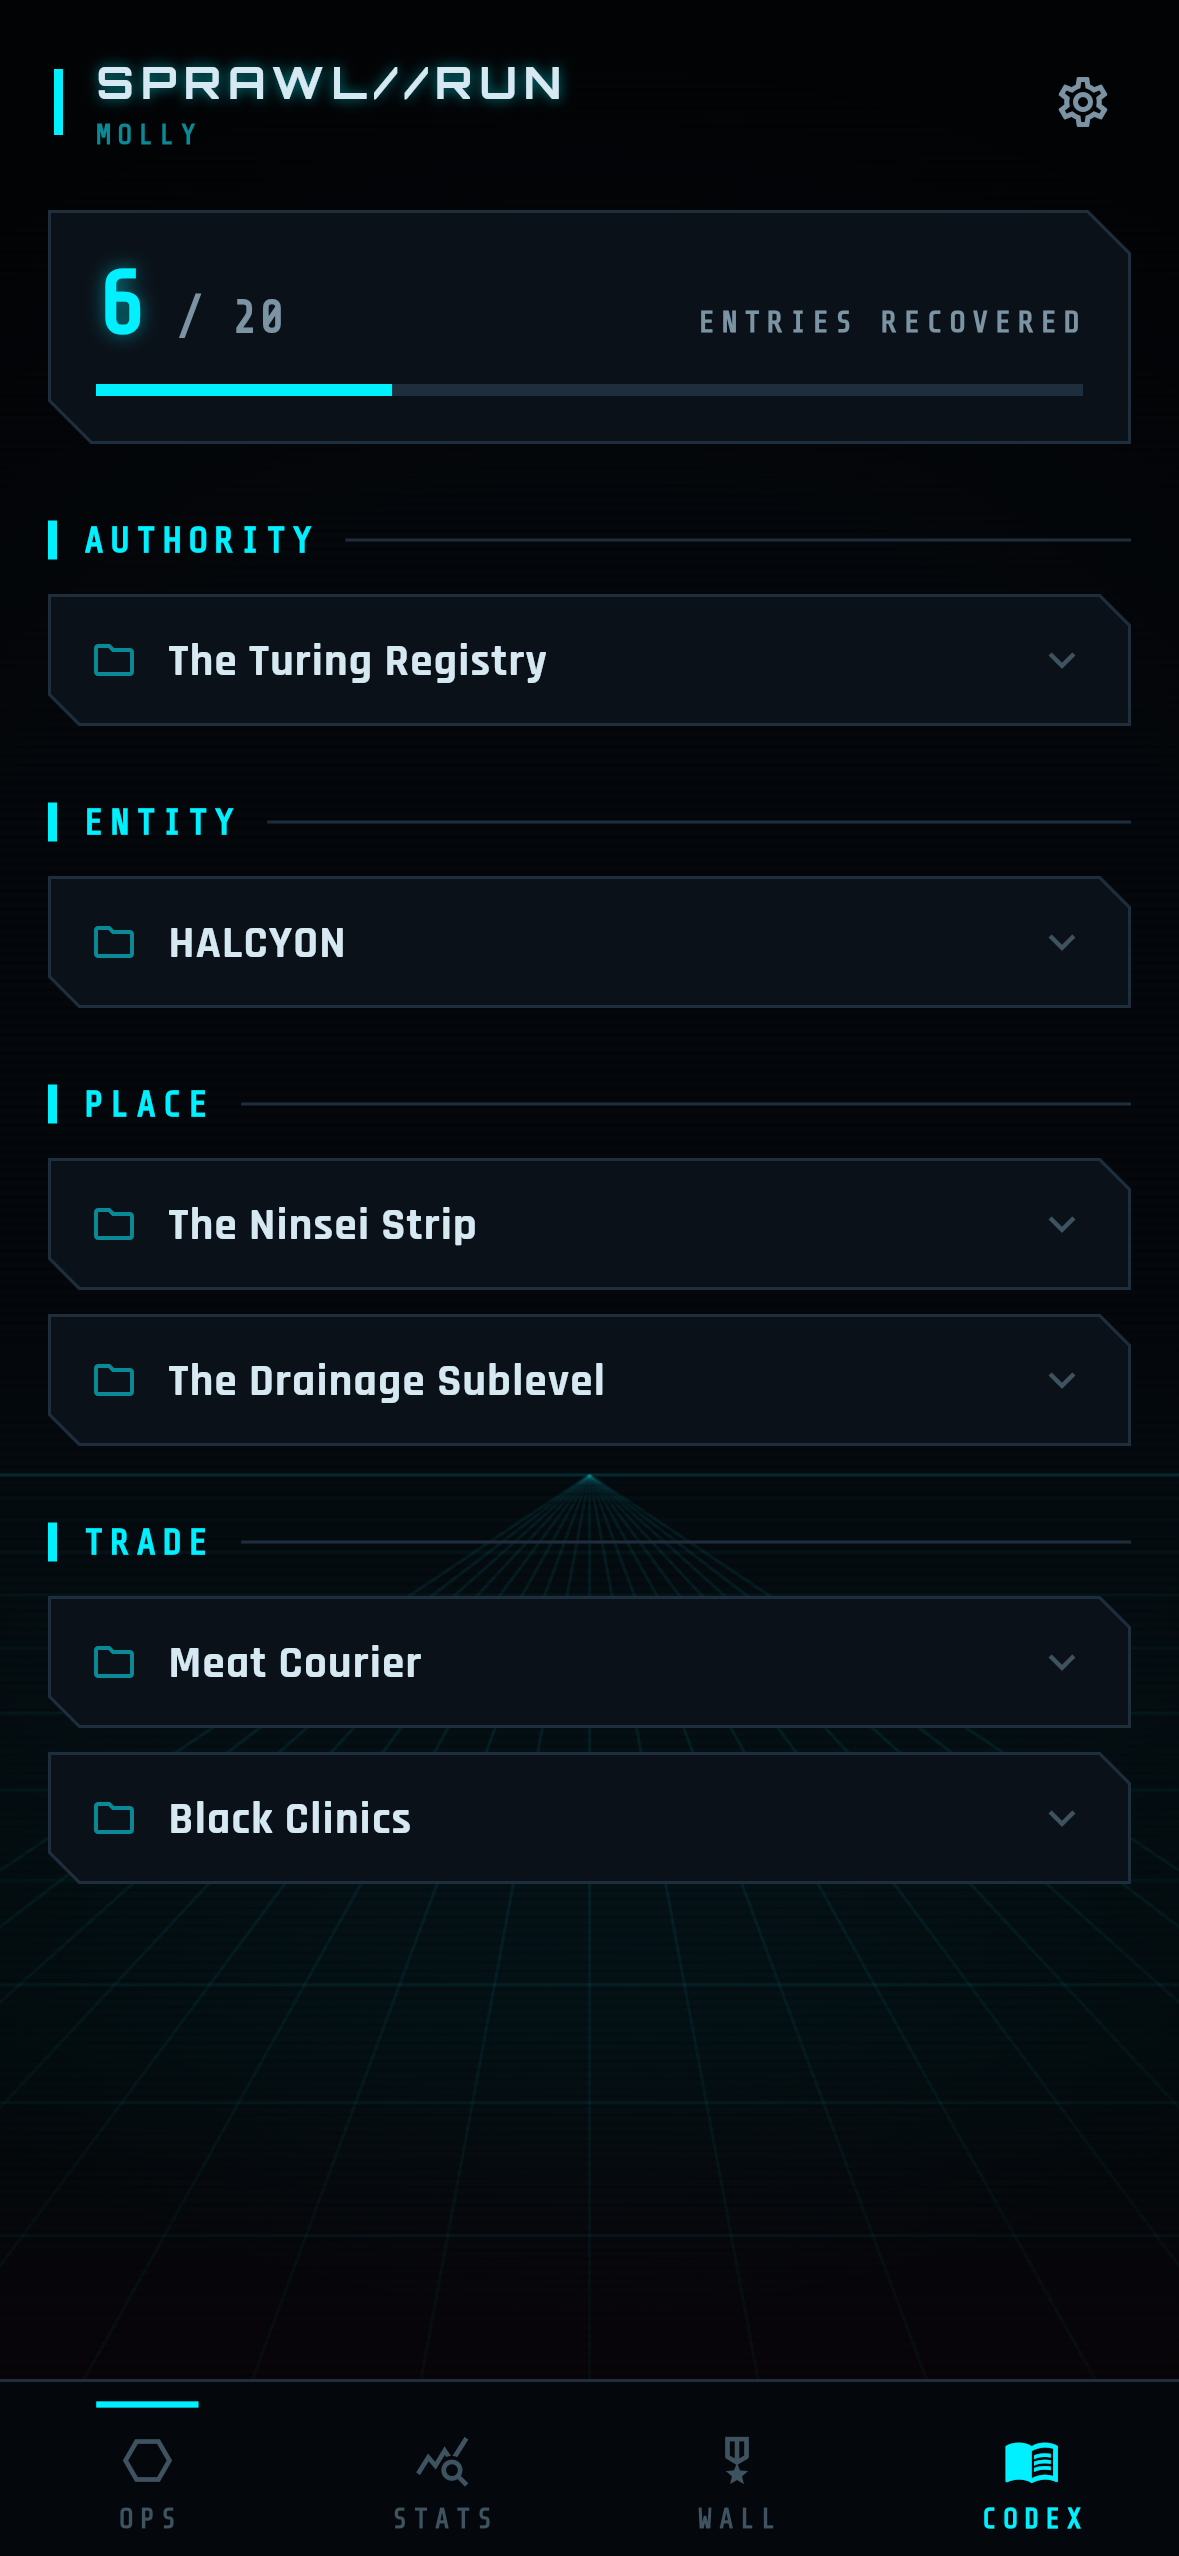
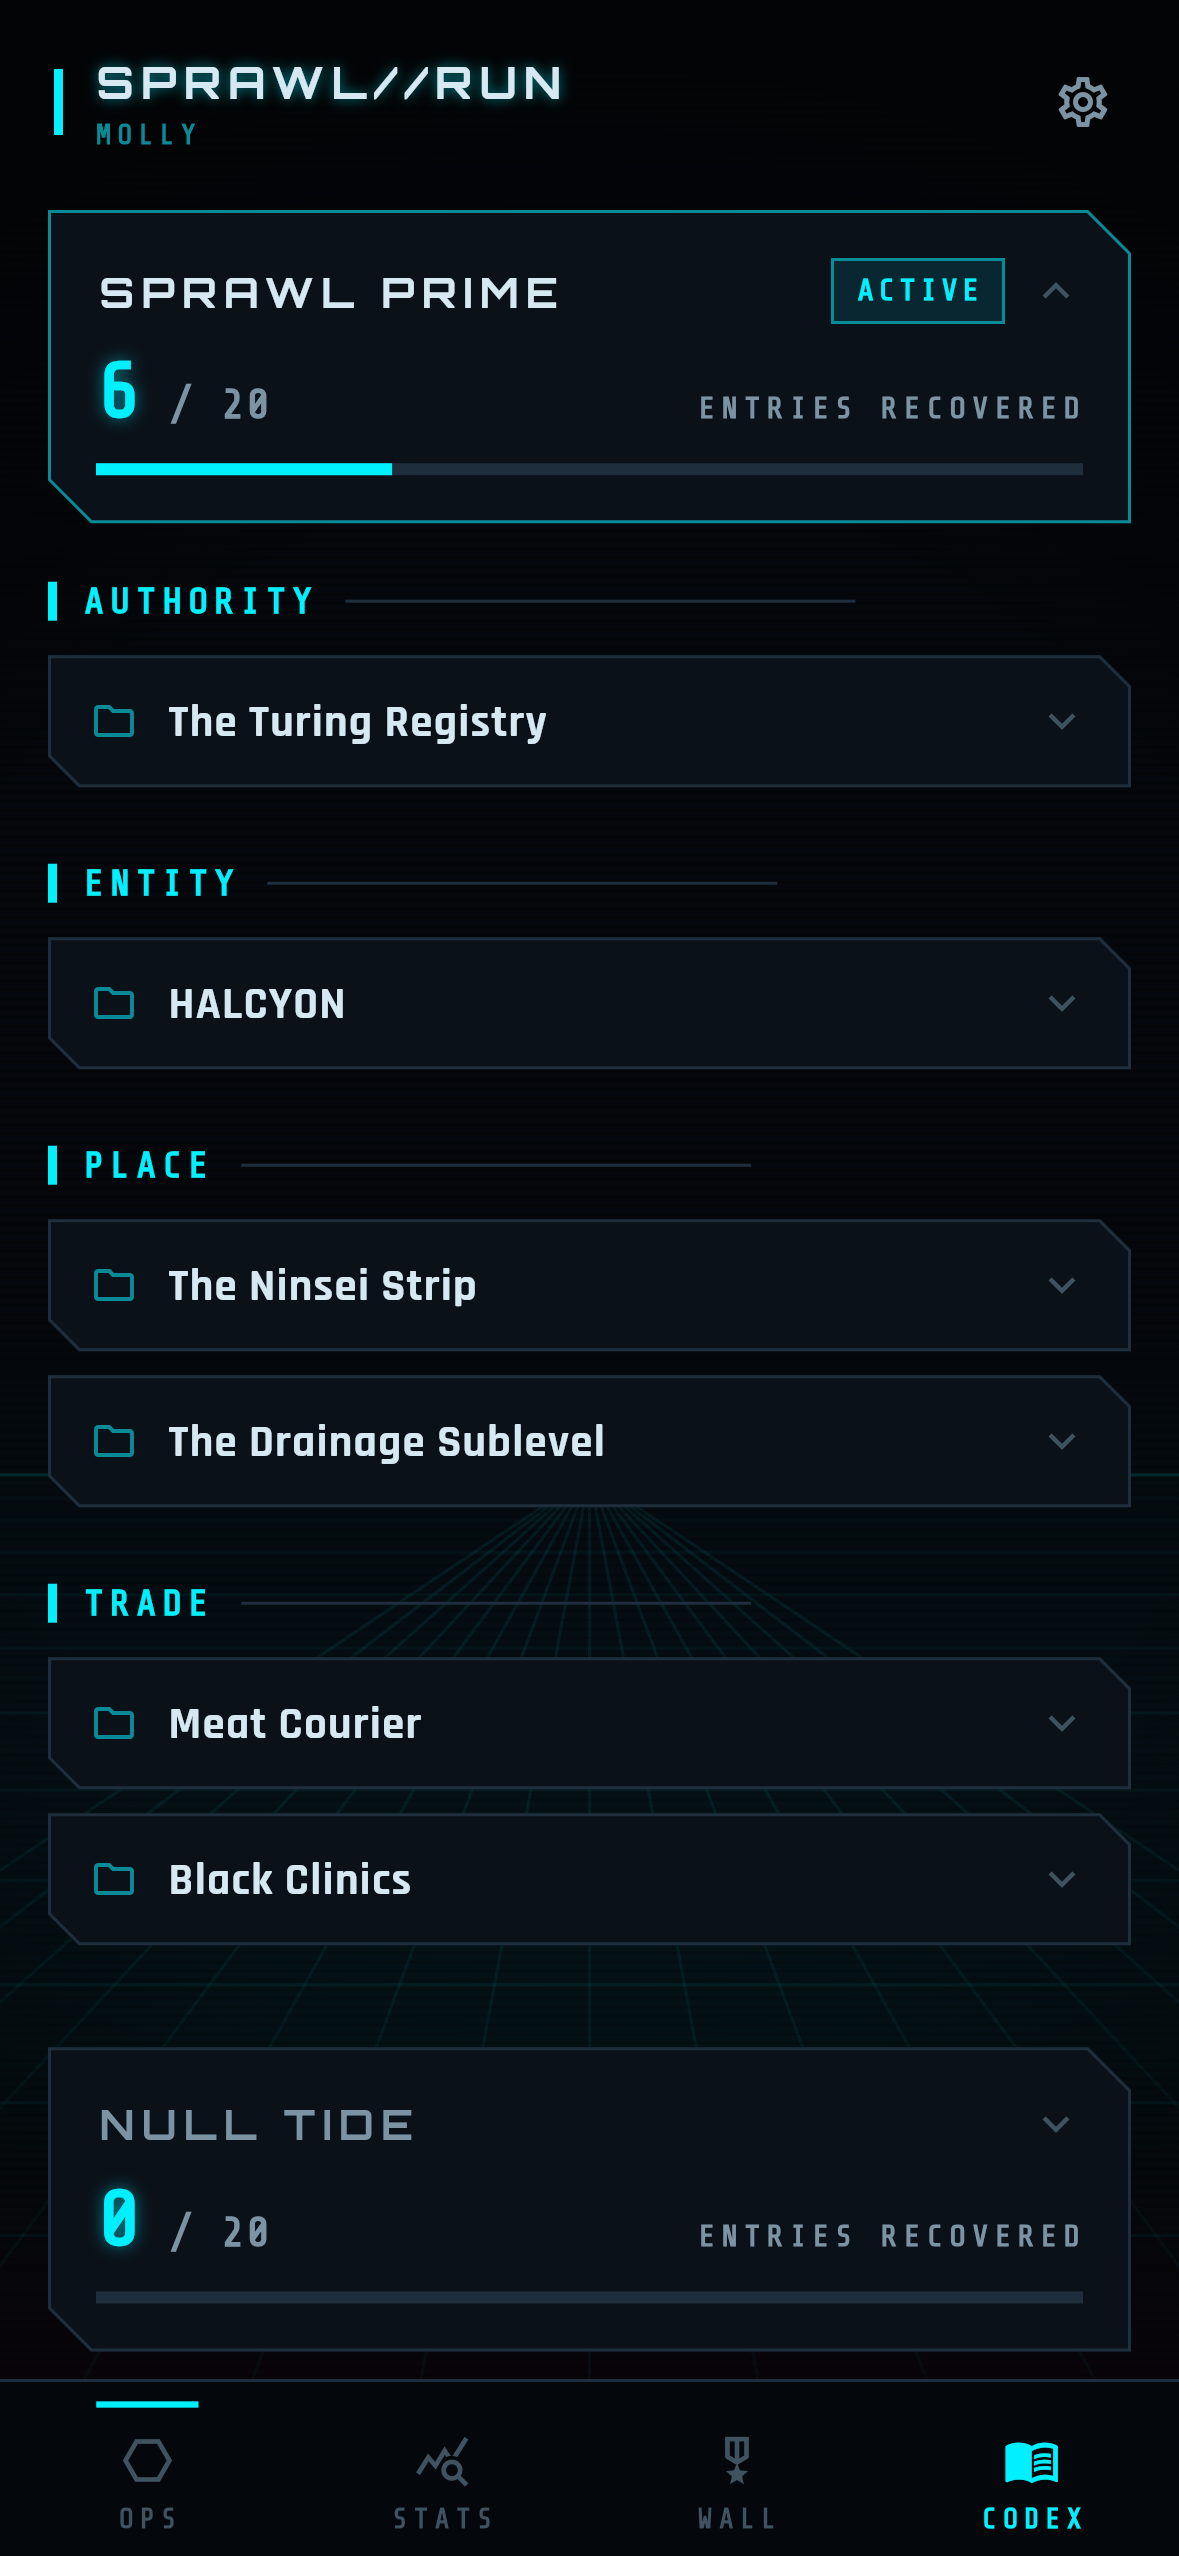
Group the codex by mission pack

diff --git a/lib/screens/codex_screen.dart b/lib/screens/codex_screen.dart
@@ -11,16 +11,29 @@ import '../widgets/progress.dart';
 /// World-building recovered by playing. Entries only appear once the beat that
 /// mentions them has actually been heard, so the codex is a record of what the
 /// runner has been told rather than a wiki.
-class CodexScreen extends StatelessWidget {
+///
+/// One section per pack, the active campaign open and first, the others folded
+/// to a header — each pack is its own world with its own categories, and intel
+/// from a finished campaign stays readable after moving on.
+class CodexScreen extends StatefulWidget {
   const CodexScreen({super.key});
+
+  @override
+  State<CodexScreen> createState() => _CodexScreenState();
+}
+
+class _CodexScreenState extends State<CodexScreen> {
+  /// Packs whose entries are shown. Seeded with the active pack on first
+  /// build, then the runner's own choice.
+  Set<String>? _open;
 
   @override
   Widget build(BuildContext context) {
     final state = context.watch<AppState>();
-    final entries = state.unlockedCodex;
-    final total = state.codexTotal;
+    final active = state.activePack;
+    _open ??= {if (active != null) active.id};
 
-    if (entries.isEmpty) {
+    if (state.unlockedCodex.isEmpty) {
       return const EmptyState(
         title: 'Nothing recovered yet',
         body: 'Intel gets logged here as your handlers mention it. Run an operation and start listening.',
@@ -28,42 +41,120 @@ class CodexScreen extends StatelessWidget {
       );
     }
 
+    // Active campaign first; the rest in load order.
+    final packs = [
+      ?active,
+      for (final pack in state.packs)
+        if (pack.id != active?.id) pack,
+    ];
+
+    return ListView(
+      padding: const EdgeInsets.fromLTRB(16, 6, 16, 28),
+      children: [
+        for (final pack in packs) ...[
+          _PackSection(
+            pack: pack,
+            unlocked: state.profile.unlockedCodex,
+            selected: pack.id == active?.id,
+            open: _open!.contains(pack.id),
+            onToggle: () => setState(() {
+              if (!_open!.remove(pack.id)) _open!.add(pack.id);
+            }),
+          ),
+          const SizedBox(height: 14),
+        ],
+      ],
+    );
+  }
+}
+
+/// A pack's recovered intel under a header that always shows the count; the
+/// entries themselves only when open.
+class _PackSection extends StatelessWidget {
+  const _PackSection({
+    required this.pack,
+    required this.unlocked,
+    required this.selected,
+    required this.open,
+    required this.onToggle,
+  });
+
+  final MissionPack pack;
+  final Set<String> unlocked;
+  final bool selected;
+  final bool open;
+  final VoidCallback onToggle;
+
+  @override
+  Widget build(BuildContext context) {
+    final all = [for (final m in pack.missions) ...m.codex];
+    final entries = all.where((e) => unlocked.contains(e.id)).toList();
+
     final byCategory = <String, List<CodexEntry>>{};
     for (final entry in entries) {
       byCategory.putIfAbsent(entry.category, () => []).add(entry);
     }
     final categories = byCategory.keys.toList()..sort();
 
-    return ListView(
-      padding: const EdgeInsets.fromLTRB(16, 6, 16, 28),
+    return Column(
+      crossAxisAlignment: CrossAxisAlignment.start,
       children: [
         NeonPanel(
+          accent: open ? Cy.cyanDim : Cy.rule,
+          onTap: onToggle,
           child: Column(
             crossAxisAlignment: CrossAxisAlignment.start,
             children: [
               Row(
+                children: [
+                  Expanded(
+                    child: Text(
+                      pack.title,
+                      overflow: TextOverflow.ellipsis,
+                      style: CyType.display(size: 14, color: open ? Cy.ink : Cy.inkDim),
+                    ),
+                  ),
+                  if (selected) ...[
+                    const CyberTag('ACTIVE', color: Cy.cyan),
+                    const SizedBox(width: 8),
+                  ],
+                  Icon(open ? Icons.expand_less : Icons.expand_more, size: 18, color: Cy.ghost),
+                ],
+              ),
+              const SizedBox(height: 10),
+              Row(
                 crossAxisAlignment: CrossAxisAlignment.baseline,
                 textBaseline: TextBaseline.alphabetic,
                 children: [
-                  Text('${entries.length}', style: CyType.readout(30, Cy.cyan)),
-                  Text(' / $total', style: CyType.mono(size: 15, color: Cy.inkDim)),
+                  Text('${entries.length}', style: CyType.readout(26, Cy.cyan)),
+                  Text(' / ${all.length}', style: CyType.mono(size: 14, color: Cy.inkDim)),
                   const Spacer(),
                   Text('ENTRIES RECOVERED', style: CyType.label(size: 10)),
                 ],
               ),
-              const SizedBox(height: 12),
-              ThinBar(progress: total == 0 ? 0 : entries.length / total, color: Cy.cyan, height: 4),
+              const SizedBox(height: 10),
+              ThinBar(progress: all.isEmpty ? 0 : entries.length / all.length, color: Cy.cyan, height: 4),
             ],
           ),
         ),
-        const SizedBox(height: 20),
-        for (final category in categories) ...[
-          SectionHeader(category),
-          for (final entry in byCategory[category]!) ...[
-            _CodexCard(entry: entry),
-            const SizedBox(height: 8),
+        if (open) ...[
+          const SizedBox(height: 14),
+          if (entries.isEmpty)
+            Padding(
+              padding: const EdgeInsets.only(left: 4, bottom: 4),
+              child: Text(
+                'Nothing recovered from this campaign yet.',
+                style: CyType.body(size: 14, color: Cy.ghost),
+              ),
+            ),
+          for (final category in categories) ...[
+            SectionHeader(category),
+            for (final entry in byCategory[category]!) ...[
+              _CodexCard(entry: entry),
+              const SizedBox(height: 8),
+            ],
+            const SizedBox(height: 12),
           ],
-          const SizedBox(height: 12),
         ],
       ],
     );

diff --git a/test/widget_test.dart b/test/widget_test.dart
@@ -202,6 +202,34 @@ void main() {
     expect(find.text('NOTHING RECOVERED YET'), findsOneWidget);
   });
 
+  testWidgets('the codex opens on the active campaign and folds the others', (tester) async {
+    await pumpApp(
+      tester,
+      profile: const Profile(activePackId: 'null_tide', unlockedCodex: {'cdx_courier', 'cdx_drowned_mile'}),
+    );
+    await tester.tap(find.text('CODEX'));
+    await tester.pump(const Duration(milliseconds: 200));
+
+    // Both packs are listed with their own counts; only the active one is open.
+    expect(find.text('NULL TIDE'), findsOneWidget);
+    expect(find.text('SPRAWL PRIME'), findsOneWidget);
+    expect(find.text('ACTIVE'), findsOneWidget);
+    expect(find.text('The Drowned Mile'), findsOneWidget);
+    expect(find.text('Meat Courier'), findsNothing);
+    expect(find.text('PLACES'), findsOneWidget);
+    expect(find.text('TRADE'), findsNothing);
+
+    await tester.tap(find.text('SPRAWL PRIME'));
+    await tester.pump();
+    expect(find.text('Meat Courier'), findsOneWidget);
+    expect(find.text('TRADE'), findsOneWidget);
+
+    await tester.tap(find.text('NULL TIDE'));
+    await tester.pump();
+    expect(find.text('The Drowned Mile'), findsNothing, reason: 'sections fold independently');
+    expect(find.text('Meat Courier'), findsOneWidget);
+  });
+
   testWidgets('the achievement wall lists everything, all locked at the start', (tester) async {
     await pumpApp(tester);
 

diff --git a/CLAUDE.md b/CLAUDE.md
@@ -11,7 +11,7 @@ This file is only for things that will otherwise waste your time.
 
 ```bash
 fvm flutter analyze                                 # must stay clean
-fvm flutter test                                    # 227 tests
+fvm flutter test                                    # 228 tests
 fvm flutter build apk --release
 adb install -r build/app/outputs/flutter-apk/app-release.apk   # never `flutter install`
 fvm dart run tool/gen_sfx.dart                      # assets/sfx/*.wav
